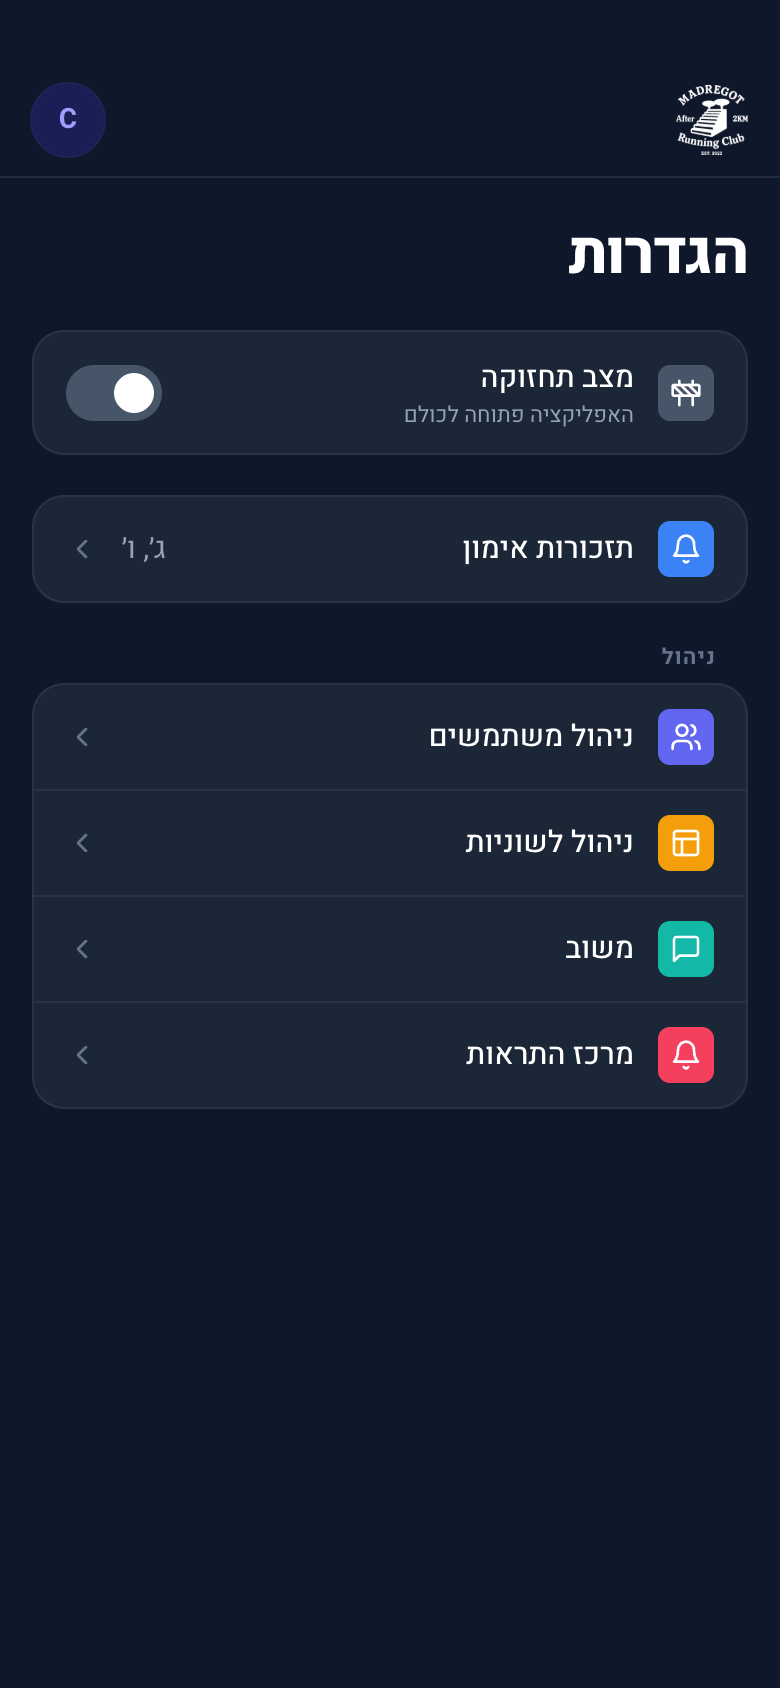
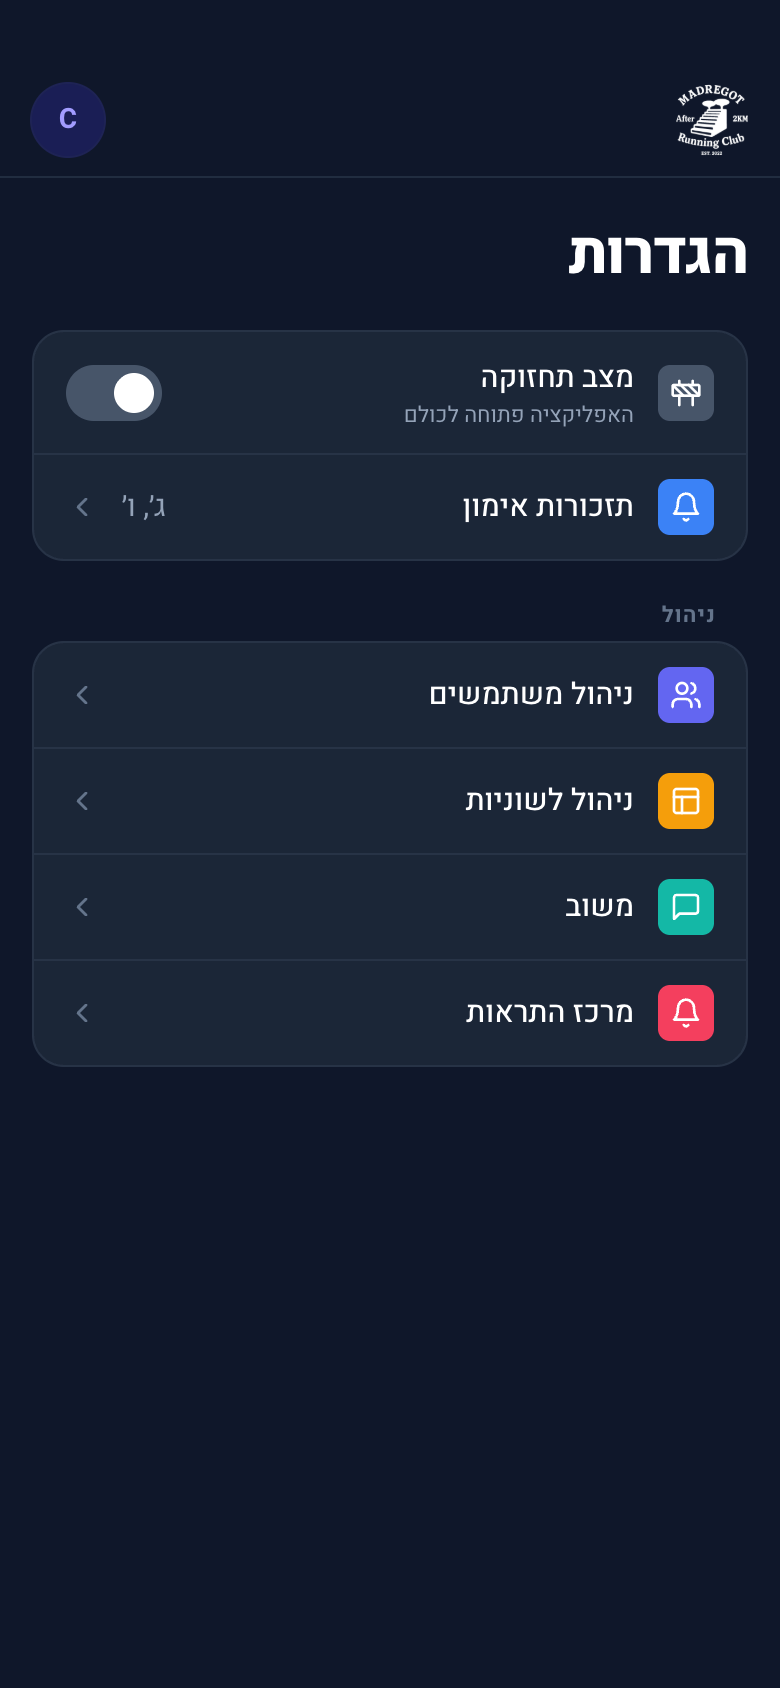
docs(tour): refresh profile + settings shots (notification prefs, grouped settings)
Recapture the profile screen (now includes the per-user notification-preferences
section) and the settings landing (grouped maintenance+reminders card). Add an
"העדפות התראות אישיות" capability chip + update the profile caption.

diff --git a/public/tour.html b/public/tour.html
@@ -64,6 +64,7 @@
     <span class="cap"><b>דופק המאמן</b></span>
     <span class="cap"><b>ספריית סרטונים</b></span>
     <span class="cap"><b>התראות</b> + מרכז התראות</span>
+    <span class="cap"><b>העדפות התראות</b> אישיות</span>
     <span class="cap"><b>זיהוי אימון בוקר</b> אוטומטי</span>
     <span class="cap"><b>תזכורות</b> יום/ערב לפני</span>
     <span class="cap">שמירה <b>מיידית</b> (optimistic)</span>
@@ -74,7 +75,7 @@
   <div class="sec"><h2>מסך הרץ</h2><span class="tag run">רץ</span><div class="line"></div></div>
   <div class="grid">
     <div class="card"><div class="frame scroll"><img src="/tour/r-dashboard.png" alt=""></div><div class="cap-t"><b>לוח הבקרה</b><span>RSVP לאימון, ספירה למרוץ, אימון היום/מחר, ק״מ סה״כ + אימונים החודש, התראות שעון, נפח שבועי ועומס אימונים.</span></div></div>
-    <div class="card"><div class="frame scroll"><img src="/tour/r-profile.png" alt=""></div><div class="cap-t"><b>פרופיל · שיאים · נפח</b><span>התוצאות שלך (2000מ׳), שיאים אישיים 5K/10K/HM/מרתון וגרף מגמת נפח 12 שבועות — הכל אוטומטי מהריצות.</span></div></div>
+    <div class="card"><div class="frame scroll"><img src="/tour/r-profile.png" alt=""></div><div class="cap-t"><b>פרופיל · שיאים · נפח · התראות</b><span>התוצאות שלך (2000מ׳), שיאים אישיים 5K/10K/HM/מרתון, גרף מגמת נפח 12 שבועות, והעדפות התראות (בחירה אילו סוגי התראות לקבל) — הכל במקום אחד.</span></div></div>
     <div class="card"><div class="frame scroll"><img src="/tour/r-activities.png" alt=""></div><div class="cap-t"><b>הפעילויות שלי</b><span>כל הריצות מגרמין/סטרבה, עם גרף קצב — קו מקווקו של הקצב המתוכנן מונח מעל הקצב בפועל.</span></div></div>
     <div class="card"><div class="frame scroll"><img src="/tour/r-feedback.png" alt=""></div><div class="cap-t"><b>משוב אחרי אימון</b><span>קושי 1–10, תחושה, כאב, בקשת משוב והערה חופשית — נשמר מיידית ומסתגל לפי נתוני השעון.</span></div></div>
     <div class="card"><div class="frame scroll"><img src="/tour/r-inbox.png" alt=""></div><div class="cap-t"><b>מרכז התראות</b><span>היסטוריית התראות בתוך האפליקציה, אייקון צבעוני לפי סוג, נקודת ״לא נקרא״, הקשה פותחת את המסך.</span></div></div>
